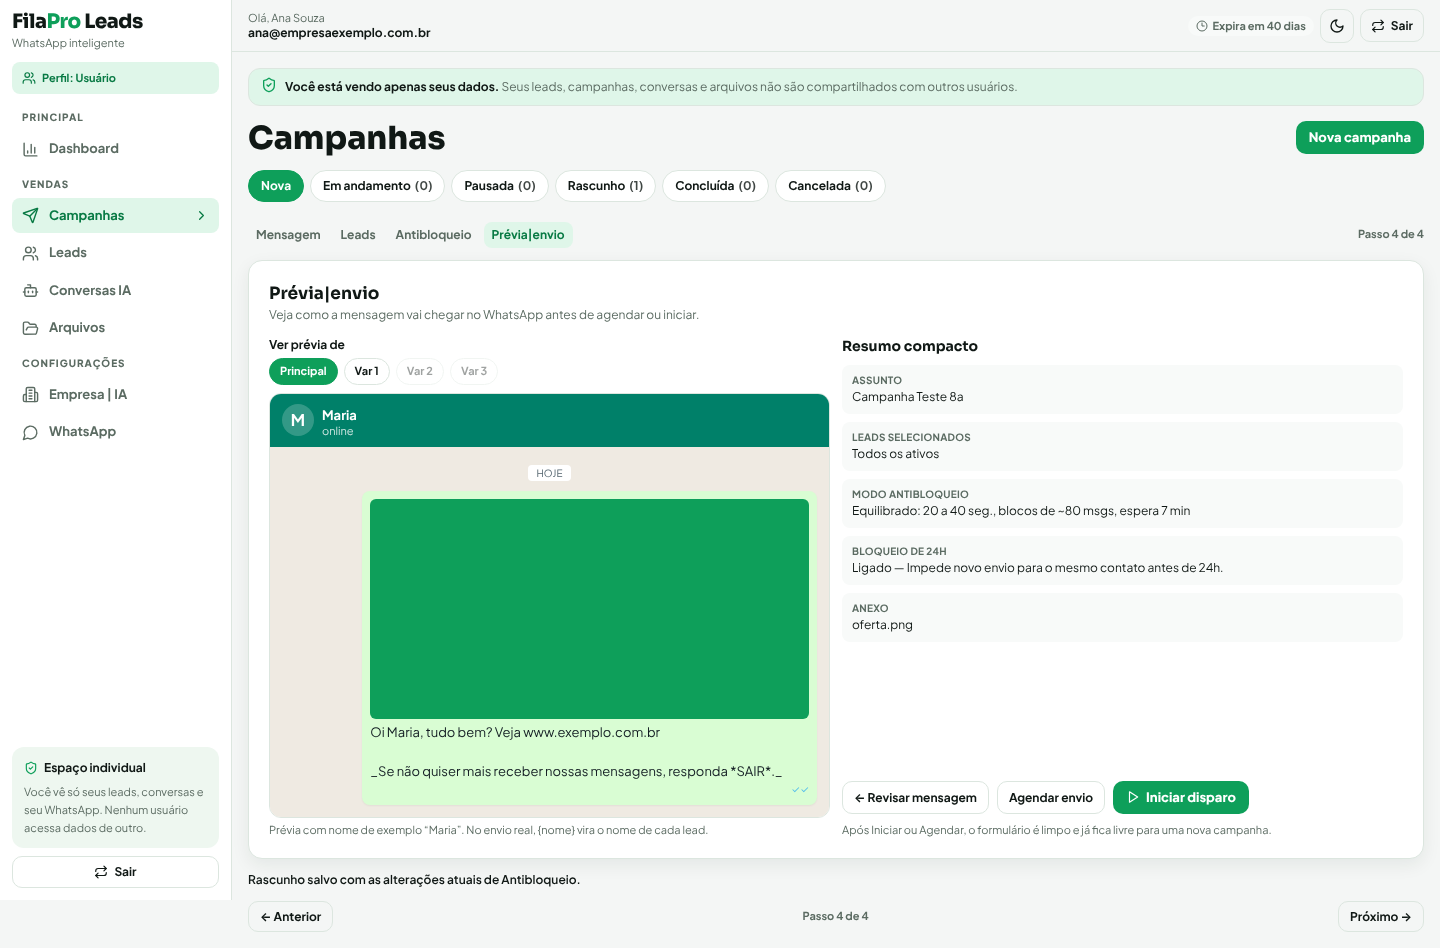
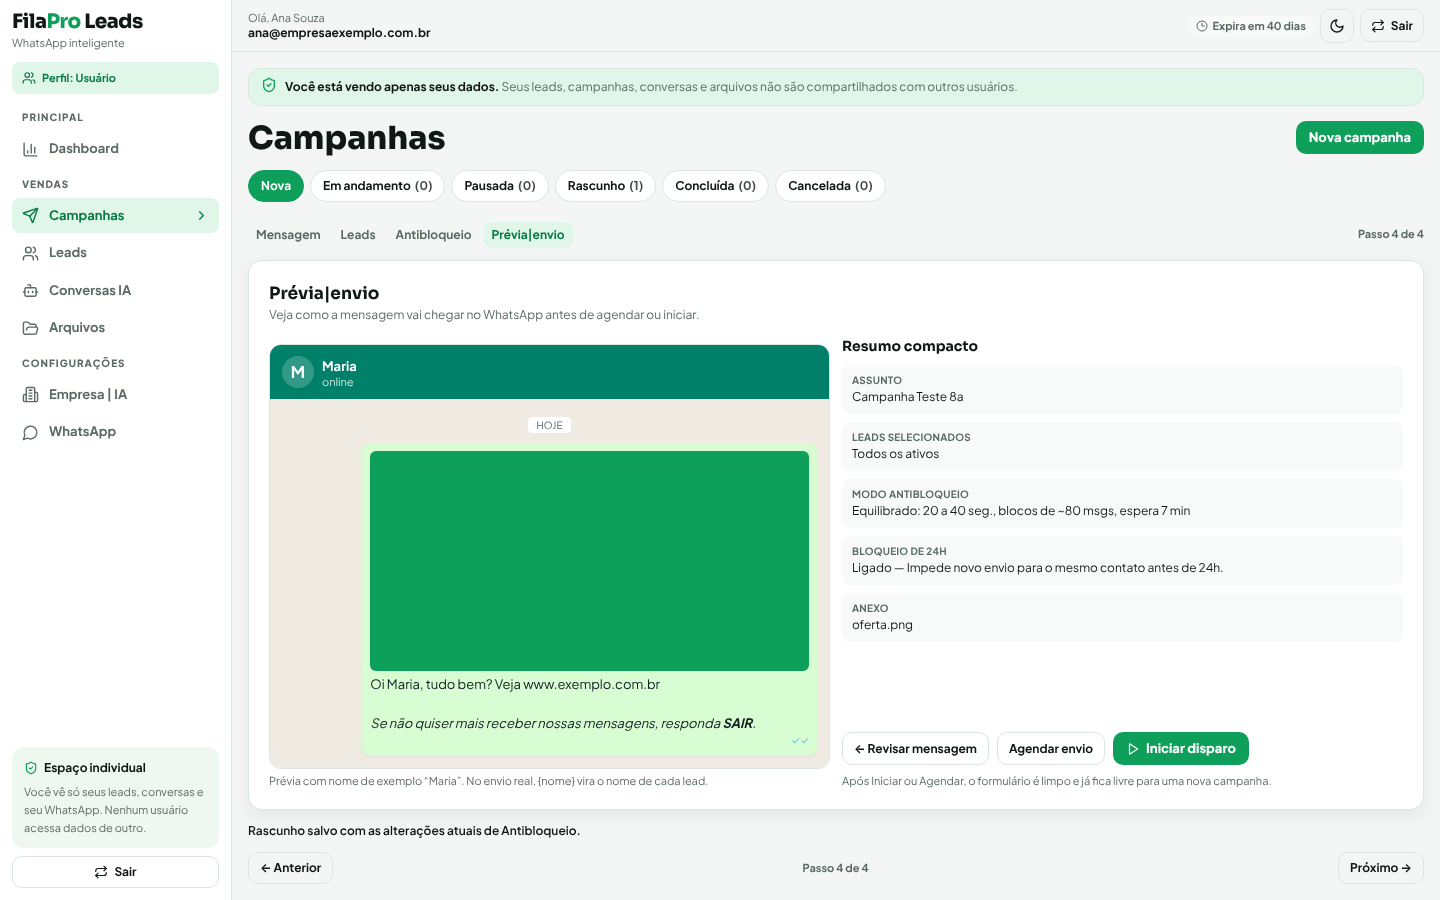
Limites não pausam a campanha; avisos pelo WhatsApp da plataforma; sem campos de variação (decisão #70)
- Limite diário: campanha continua em andamento e volta sozinha; aviso ao usuário
- Pausas automáticas também avisam o usuário pelo número da plataforma (1x por dia)
- Aba Mensagem sem Variação 1, 2 e 3; prévia só mostra variações quando houver (IA, etapa 9)

Claude-Session: https://claude.ai/code/session_01LyZkVnz4zPybwVeko9NDYv

diff --git a/apps/worker/tests/disparos.test.ts b/apps/worker/tests/disparos.test.ts
@@ -26,6 +26,7 @@ class Falso implements Remetente {
 
 let wa: Falso;
 let motor: MotorDisparos;
+let avisos: { para: string; texto: string }[] = [];
 const log = pino({ level: "silent" });
 
 async function lead(n: number, extra: Record<string, unknown> = {}) {
@@ -54,7 +55,7 @@ const status = (id: string) => prisma.campanha.findUniqueOrThrow({ where: { id }
 before(async () => {
   await prisma.empresa.deleteMany({ where: { id: EMP } }).catch(() => undefined);
   await prisma.empresa.create({ data: { id: EMP, codigo: "TME", nome: "Empresa Motor", modulo: Modulo.EMPRESARIAL, pacote: "Teste", limiteUsuarios: 5, expiraEm: new Date("2030-01-01") } });
-  await prisma.usuario.create({ data: { id: USU, codigo: "TMU", nome: "Usuário Motor", email: "motor@teste.local", cargo: Cargo.USUARIO, empresaId: EMP } });
+  await prisma.usuario.create({ data: { id: USU, codigo: "TMU", nome: "Usuário Motor", email: "motor@teste.local", whatsapp: "(11) 97777-1234", cargo: Cargo.USUARIO, empresaId: EMP } });
   await prisma.configEnvio.deleteMany();
 });
 beforeEach(async () => {
@@ -65,7 +66,8 @@ beforeEach(async () => {
   await prisma.whatsappSessao.create({ data: { id: USU, usuarioId: USU, status: "CONECTADO", primeiraConexaoEm: new Date("2026-09-01") } });
   await prisma.empresa.update({ where: { id: EMP }, data: { limiteDisparos: null, janelaInicio: 480, janelaFim: 1200 } });
   wa = new Falso();
-  motor = new MotorDisparos(wa, log, { pastaArquivos: "/tmp", dormir: async () => {}, agora: () => agora, sorteio: () => 0.5 });
+  avisos = [];
+  motor = new MotorDisparos(wa, log, { pastaArquivos: "/tmp", dormir: async () => {}, agora: () => agora, sorteio: () => 0.5, notificar: async (para, texto) => { avisos.push({ para, texto }); } });
 });
 after(async () => {
   await prisma.campanha.deleteMany({ where: { usuarioId: USU } });
@@ -141,6 +143,7 @@ test("WhatsApp desconectado pausa a campanha, e ela volta sozinha ao reconectar"
   await motor.passo(USU);
   assert.equal((await status(c.id)).status, StatusCampanha.PAUSADA);
   assert.equal((await status(c.id)).motivo, MOTIVO_DESCONECTADO);
+  assert.match(avisos[0]?.texto ?? "", /WhatsApp desconectou/);
   wa.conectadoAgora = true;
   await motor.ciclo();
   await new Promise((r) => setTimeout(r, 300));
@@ -165,7 +168,19 @@ test("aquecimento: número novo envia no máximo 20 por dia", async () => {
   const r = await rodar(100);
   assert.equal(wa.enviados.length, 20);
   assert.equal(r.at(-1)!.motivo, "limite diário");
-  assert.match((await status(c.id)).motivo ?? "", /Limite diário/);
+  // Não pausa (decisão #70): continua em andamento e avisa pelo WhatsApp da plataforma, uma vez só
+  const s = await status(c.id);
+  assert.equal(s.status, StatusCampanha.EM_ANDAMENTO);
+  assert.match(s.motivo ?? "", /Limite diário/);
+  await motor.passo(USU);
+  assert.equal(avisos.length, 1);
+  assert.equal(avisos[0]!.para, "5511977771234");
+  assert.match(avisos[0]!.texto, /limite de 20 envios de hoje/);
+  // No dia seguinte (terça) volta a enviar sozinha
+  agora = new Date("2026-11-24T14:00:00Z");
+  await prisma.whatsappSessao.update({ where: { id: USU }, data: { primeiraConexaoEm: new Date("2026-11-23T10:00:00Z") } });
+  await rodar();
+  assert.equal(wa.enviados.length, 22);
 });
 
 test("5 falhas seguidas pausam a campanha", async () => {
@@ -177,6 +192,8 @@ test("5 falhas seguidas pausam a campanha", async () => {
   const s = await status(c.id);
   assert.equal(s.status, StatusCampanha.PAUSADA);
   assert.match(s.motivo ?? "", /5 falhas seguidas/);
+  assert.equal(avisos.length, 1);
+  assert.match(avisos[0]!.texto, /foi pausada\. 5 falhas seguidas/);
 });
 
 test("mais de 30% sem WhatsApp pausa a campanha", async () => {

diff --git a/apps/worker/src/disparos.ts b/apps/worker/src/disparos.ts
@@ -47,6 +47,8 @@ export class MotorDisparos {
       sorteio?: () => number;
       /** Só no script de teste real (fora do horário comercial): ignora a janela de envio. */
       ignorarJanela?: boolean;
+      /** Envia um aviso pelo WhatsApp da plataforma (decisão #70). */
+      notificar?: (para: string, texto: string) => Promise<unknown>;
     },
   ) {}
 
@@ -114,6 +116,7 @@ export class MotorDisparos {
     // 1) WhatsApp conectado? Se não, pausa e volta sozinha quando reconectar.
     if (!this.remetente.conectado(usuarioId)) {
       await prisma.campanha.updateMany({ where: { id: { in: ids } }, data: { status: StatusCampanha.PAUSADA, motivo: MOTIVO_DESCONECTADO } });
+      await this.avisar(c.id, "desconectado", `⏸ FilaPro Leads: a campanha "${c.assunto}" foi pausada porque o seu WhatsApp desconectou. Ela volta sozinha quando ele reconectar. Se não voltar, abra o FilaPro Leads → WhatsApp e leia o QR Code.`);
       return { acao: "nada", esperaMs: 0, motivo: "desconectado" };
     }
 
@@ -141,6 +144,8 @@ export class MotorDisparos {
     ]);
     if (hoje >= limiteDia) {
       await prisma.campanha.updateMany({ where: { id: { in: ids } }, data: { motivo: `${MOTIVO_LIMITE_DIA} (${limiteDia}/dia)` } });
+      // Não pausa (decisão #70): continua sozinha no próximo dia de envio; só avisa.
+      await this.avisar(c.id, "limite-dia", `ℹ FilaPro Leads: o seu número atingiu o limite de ${limiteDia} envios de hoje (proteção contra bloqueio). A campanha "${c.assunto}" continua sozinha no próximo dia de envio.`);
       return { acao: "aguardar", esperaMs: 10 * 60_000, motivo: "limite diário" };
     }
     if (ultimaHora >= m.porHora) return { acao: "aguardar", esperaMs: 60_000, motivo: "limite por hora" };
@@ -261,9 +266,29 @@ export class MotorDisparos {
     return { acao: "falhou", esperaMs: 10_000, motivo: msg };
   }
 
-  private pausar(campanhaId: string, motivo: string) {
+  private async pausar(campanhaId: string, motivo: string) {
     this.log.warn({ campanhaId, motivo }, "campanha pausada automaticamente");
-    return prisma.campanha.update({ where: { id: campanhaId }, data: { status: StatusCampanha.PAUSADA, motivo } });
+    const c = await prisma.campanha.update({ where: { id: campanhaId }, data: { status: StatusCampanha.PAUSADA, motivo } });
+    await this.avisar(campanhaId, "pausa", `⏸ FilaPro Leads: a campanha "${c.assunto}" foi pausada. ${motivo.replace(/^Pausada automaticamente:\s*/, "")}`);
+  }
+
+  /**
+   * Aviso ao usuário pelo WhatsApp da plataforma (decisão #70), no máximo uma vez por dia
+   * para cada tipo de aviso e campanha. Destino: WhatsApp do usuário; no Super Admin, o número de avisos.
+   */
+  private async avisar(campanhaId: string, tipo: string, texto: string) {
+    if (!this.opcoes.notificar) return;
+    const c = await prisma.campanha.findUnique({ where: { id: campanhaId }, include: { usuario: true } });
+    if (!c) return;
+    const chave = `${tipo}|${agoraSP(this.agora()).data}`;
+    if (c.ultimoAviso === chave) return;
+    await prisma.campanha.update({ where: { id: campanhaId }, data: { ultimoAviso: chave } });
+    let para = c.usuario.whatsapp ?? "";
+    if (c.usuario.cargo === Cargo.SUPERADMIN) para = (await prisma.configVenda.findUnique({ where: { id: "config" } }))?.numeroAvisos || para;
+    const dig = para.replace(/\D/g, "");
+    const numero = dig.length === 10 || dig.length === 11 ? "55" + dig : dig;
+    if (!/^\d{12,15}$/.test(numero)) return;
+    await this.opcoes.notificar(numero, texto).catch((e) => this.log.warn({ e, campanhaId }, "aviso pelo WhatsApp não enviado"));
   }
 
   /**

diff --git a/apps/web/app/(app)/campanhas/NovaCampanha.tsx b/apps/web/app/(app)/campanhas/NovaCampanha.tsx
@@ -168,12 +168,7 @@ function PassoMensagem({ d, set, arquivo, setArquivo, arquivos }: { d: Dados; se
         <textarea id="msg" className="input min-h-[90px]" value={d.mensagem} onChange={(e) => set("mensagem", e.target.value)} placeholder="{saudacao} {nome}, tudo bem? ..." />
         <p className="help mt-0.5">{"{nome}"} vira o primeiro nome de cada lead. {"{saudacao}"} alterna entre “Oi”, “Olá” e “Bom dia/Boa tarde/Boa noite”.</p>
       </div>
-      {[0, 1, 2].map((i) => (
-        <div key={i}>
-          <label className="label" htmlFor={`var${i}`}>Variação {i + 1}</label>
-          <textarea id={`var${i}`} className="input min-h-[60px]" value={d.variacoes[i]} onChange={(e) => set("variacoes", d.variacoes.map((v, j) => (j === i ? e.target.value : v)))} placeholder="Outra forma de dizer a mesma coisa (opcional)" />
-        </div>
-      ))}
+      {/* Variações 1, 2 e 3 não aparecem aqui (decisão #70): virão da IA na etapa 9. */}
       {link && (
         <p className="text-[12px] rounded-lg p-2.5 flex gap-1.5" style={{ background: "#fff7e0", color: "#8a5a00" }} data-testid="aviso-link">
           <TriangleAlert size={14} className="shrink-0" /> A mensagem tem link. Link na primeira mensagem para quem não conhece você aumenta as denúncias e o risco de bloqueio. Prefira enviar o link depois que o lead responder.
@@ -495,15 +490,20 @@ function PassoPrevia({ d, arquivo, pendente, voltar, enviar }: { d: Dados; arqui
       </div>
       <div className="grid lg:grid-cols-[1fr_1fr] gap-3">
         <div>
-          <span className="label">Ver prévia de</span>
-          <div className="flex flex-wrap gap-1.5" role="tablist" aria-label="Prévia da mensagem">
-            {["Principal", "Var 1", "Var 2", "Var 3"].map((r, i) => (
-              <button key={r} role="tab" aria-selected={versao === i} disabled={!textos[i]} onClick={() => setVersao(i)} className="px-2.5 py-1 rounded-full text-[11px] font-bold border"
-                style={versao === i ? { background: "var(--primary)", color: "#fff", borderColor: "var(--primary)" } : { borderColor: "var(--border)", opacity: textos[i] ? 1 : 0.4 }}>
-                {r}
-              </button>
-            ))}
-          </div>
+          {/* Botões das variações só aparecem quando houver variações (geradas pela IA — etapa 9) */}
+          {textos.slice(1).some((t) => t.trim()) && (
+            <>
+              <span className="label">Ver prévia de</span>
+              <div className="flex flex-wrap gap-1.5" role="tablist" aria-label="Prévia da mensagem">
+                {["Principal", "Var 1", "Var 2", "Var 3"].map((r, i) => textos[i]?.trim() ? (
+                  <button key={r} role="tab" aria-selected={versao === i} onClick={() => setVersao(i)} className="px-2.5 py-1 rounded-full text-[11px] font-bold border"
+                    style={versao === i ? { background: "var(--primary)", color: "#fff", borderColor: "var(--primary)" } : { borderColor: "var(--border)" }}>
+                    {r}
+                  </button>
+                ) : null)}
+              </div>
+            </>
+          )}
           {/* Simulação do WhatsApp */}
           <div className="rounded-xl overflow-hidden mt-2" style={{ border: "1px solid var(--border)" }}>
             <div className="flex items-center gap-2 px-3 py-2.5" style={{ background: "#008069", color: "#fff" }}>

diff --git a/apps/worker/src/index.ts b/apps/worker/src/index.ts
@@ -3,7 +3,7 @@
 import pino from "pino";
 import { prisma } from "@filapro/db";
 import { config } from "./config.js";
-import { GerenciadorSessoes } from "./sessoes.js";
+import { GerenciadorSessoes, SESSAO_PLATAFORMA } from "./sessoes.js";
 import { criarApi } from "./api.js";
 import { MotorDisparos } from "./disparos.js";
 
@@ -11,7 +11,11 @@ const log = pino({ level: config.nivelLog });
 const sessoes = new GerenciadorSessoes(config.chaveCripto, log);
 const api = criarApi(sessoes, config.token, log, config.pastaArquivos);
 // Motor de disparos (etapa 8b): envia as campanhas seguindo o Antibloqueio, 24/7.
-const motor = new MotorDisparos(sessoes, log.child({ modulo: "disparos" }), { pastaArquivos: config.pastaArquivos });
+const motor = new MotorDisparos(sessoes, log.child({ modulo: "disparos" }), {
+  pastaArquivos: config.pastaArquivos,
+  // Avisos automáticos ao usuário saem pelo número da plataforma (decisões #51 e #70)
+  notificar: (para, texto) => sessoes.enviarTexto(SESSAO_PLATAFORMA, para, texto),
+});
 sessoes.aoReceber = (sessaoId, telefone, texto) => motor.registrarResposta(sessaoId, telefone, texto);
 
 async function iniciar() {

diff --git a/docs/decisoes.md b/docs/decisoes.md
@@ -101,6 +101,7 @@ Cada sessão de WhatsApp conectada usa memória contínua; com muitos clientes, 
 | 67 | **Anexos na campanha:** **um anexo por campanha**, enviado junto com o texto (o texto vira a legenda). Tipos: **imagem (JPG/PNG) até 5 MB, PDF até 15 MB, vídeo curto e áudio**. Arquivos guardados **na VPS**. |
 | 68 | **Etapa 8:** variações da mensagem **escritas à mão** na etapa 8; na etapa 9 o botão "Atualizar prévia" passa a gerá-las com IA. **Vídeo até 16 MB e áudio até 16 MB.** **Feriados padrão:** nacionais oficiais (1/1, Sexta-feira Santa, 21/4, 1/5, 7/9, 12/10, 2/11, 15/11, 20/11, 25/12); Carnaval e Corpus Christi fora do padrão, mas o Super Admin pode incluir datas. Etapa 8 dividida em **8a** (tela de Campanhas), **8b** (envio na VPS) e **8c** (painéis). Fila de envio guardada no PostgreSQL (sem Redis). |
 | 69 | **"Incluir data e hora"** (Antibloqueio) é **opcional** (caixa de marcar, desligada por padrão). Quando marcada, coloca a data e a hora do envio no fim da mensagem (ex.: "21/11 14:32"), deixando cada mensagem um pouco diferente. |
+| 70 | **Limites de envio não pausam a campanha:** ao atingir o limite diário do número (ou o do aquecimento), ela continua "Em andamento" e volta a enviar sozinha no próximo dia de envio. **Aviso** na tela e **pelo WhatsApp da plataforma** para o WhatsApp do usuário (uma vez por dia/campanha), também nas pausas automáticas (WhatsApp desconectado, falhas seguidas, muitos números sem WhatsApp, fim do teste grátis). Nas campanhas do Super Admin, o aviso vai para o número de avisos dele. **A aba Mensagem não mostra os campos de Variação 1, 2 e 3** (as variações virão da IA na etapa 9). |
 
 ## Fase 2 — IMPORTANTE, implementar depois do MVP
 - **Teste grátis:** 7 dias ou 20 disparos, o que acontecer primeiro (regras completas em `especificacao-api-whatsapp.md`).
